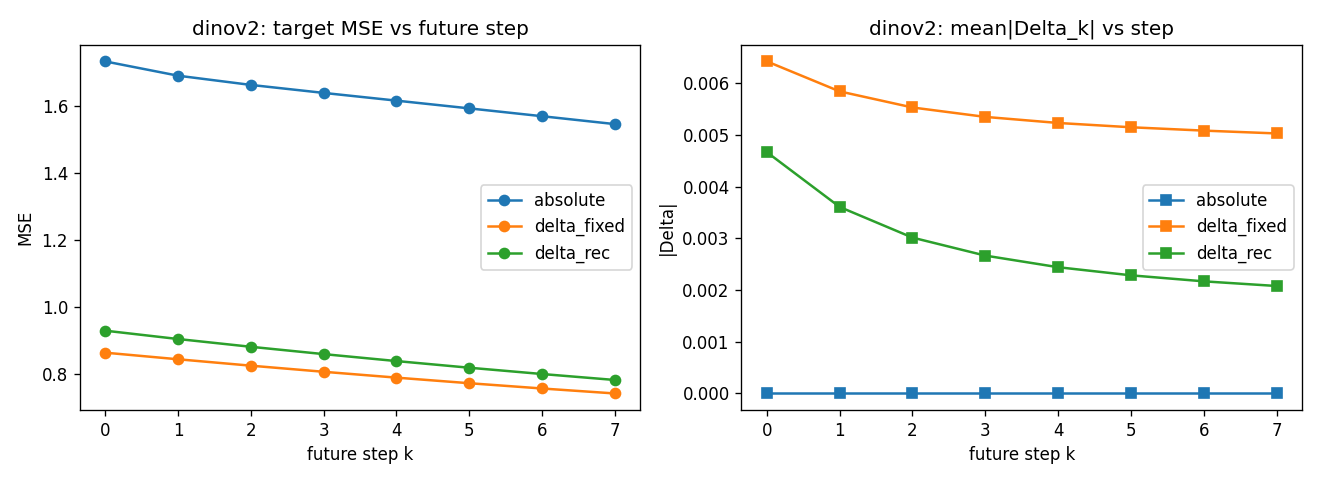
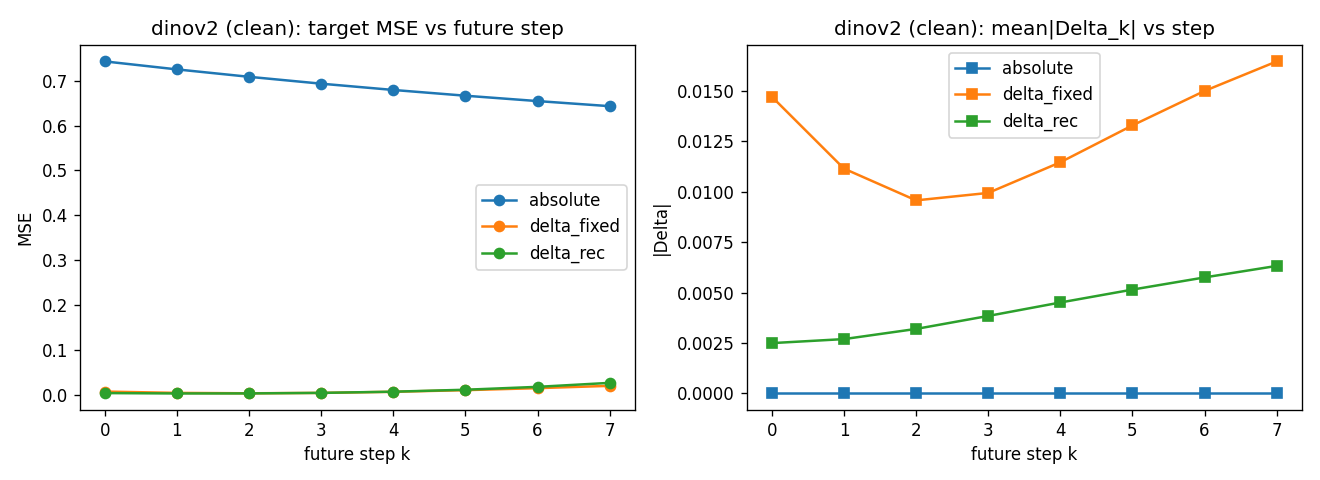
fix: regenerate clean Route B curve from JSON; add matplotlib to deps + note to run inside ocwm env

diff --git a/AutoDL_路线B_部署手册.md b/AutoDL_路线B_部署手册.md
@@ -42,13 +42,16 @@ source activate ocwm
 pip install -i https://pypi.tuna.tsinghua.edu.cn/simple \
   torch torchvision --index-url https://download.pytorch.org/whl/cu121
 
-# 1.4 其余依赖
+# 1.4 其余依赖（含 matplotlib，否则不出曲线图）
 pip install -i https://pypi.tuna.tsinghua.edu.cn/simple \
-  numpy timm pycocotools opencv-python-headless huggingface_hub tqdm
+  numpy timm pycocotools opencv-python-headless huggingface_hub tqdm matplotlib
 
-# 1.5 验证
-python -c "import torch,timm,cv2,pycocotools; print('torch',torch.__version__,'cuda',torch.cuda.is_available(), torch.cuda.get_device_name(0))"
+# 1.5 验证：务必确认在 ocwm 环境里（python 路径应含 envs/ocwm）
+python -c "import sys,torch,timm,cv2,pycocotools,matplotlib; print(sys.executable); print('torch',torch.__version__,'cuda',torch.cuda.is_available())"
 ```
+
+> ⚠ **一定要在 `ocwm` 环境里跑**：非交互 shell 里 `conda activate` 可能不生效，导致落到 base（缺依赖）。
+> 保险写法：`conda run -n ocwm python ...`，或每次先 `source /root/miniconda3/etc/profile.d/conda.sh && conda activate ocwm`。
 
 ---
 
